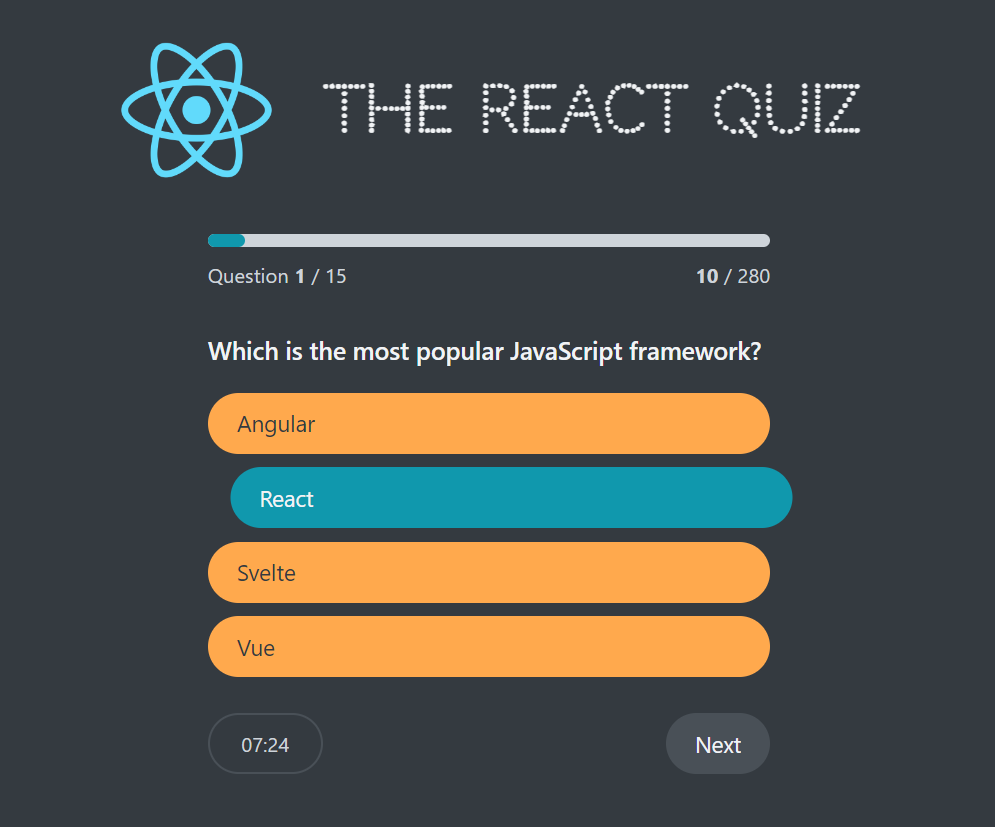
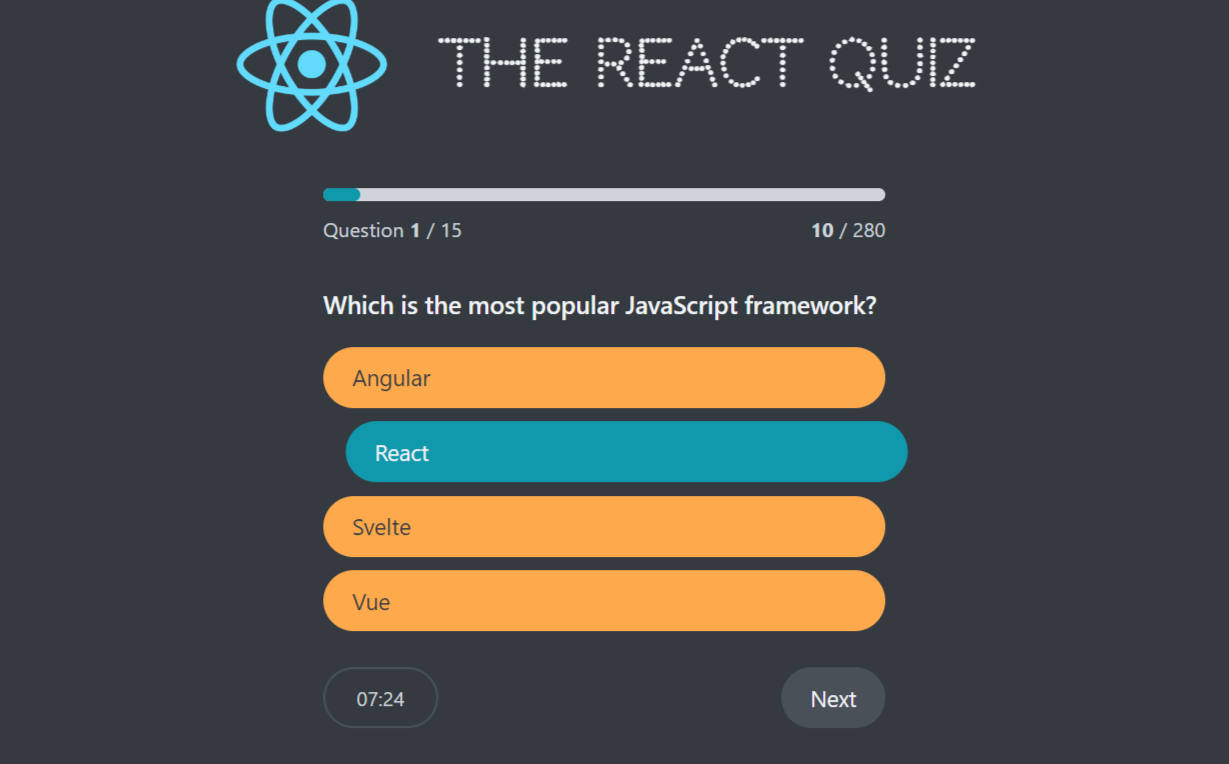
i dont remember

diff --git a/index.html b/index.html
@@ -23,49 +23,50 @@
       </p>
       <section class="myProjects">
         <div class="project">
-          <p>Warm House</p>
+          <p class="project-title">Warm House</p>
+          <!-- <p class="project-description">Real Estate Website</p> -->
           <a href="https://warm.ge/?locale=ka" target="_blank">
             <img alt="warm house" src="./images/warm house.png" />
           </a>
         </div>
 
         <div class="project">
-          <p>Use Popcorn</p>
+          <p class="project-title">Use Popcorn</p>
           <a href="https://use-popcorn-jet-phi.vercel.app/" target="_blank">
             <img alt="popcorn" src="./images/popcorn.png" />
           </a>
         </div>
 
         <div class="project">
-          <p>Forkify</p>
+          <p class="project-title">Forkify</p>
           <a href="https://forkify-sali.netlify.app/" target="_blank">
             <img alt="forkify" src="./images/forkify.png" />
           </a>
         </div>
 
         <div class="project">
-          <p>Atomic Blog</p>
+          <p class="project-title">Atomic Blog</p>
           <a href="https://atomic-blog-gules.vercel.app/" target="_blank">
             <img alt="atomic blog" src="./images/atomic blog.png" />
           </a>
         </div>
 
         <div class="project">
-          <p>React Quiz</p>
+          <p class="project-title">React Quiz</p>
           <a href="https://react-quiz-zeta-three.vercel.app/" target="_blank">
             <img alt="react quiz" src="./images/react quiz.png" />
           </a>
         </div>
 
         <div class="project">
-          <p>Far Away</p>
+          <p class="project-title">Travel List</p>
           <a href="https://travel-list-neon.vercel.app/" target="_blank">
             <img alt="travel list" src="./images/travel list.png" />
           </a>
         </div>
 
         <!-- <div class="project">
-          <p>Pizza Menu</p>
+          <p class="project-title">Pizza Menu</p>
           <a href="https://pizza-menu-snowy.vercel.app/" target="_blank">
             <img alt="pizza menu" src="./images/pizza menu.png" />
           </a>

diff --git a/styles.css b/styles.css
@@ -12,12 +12,12 @@
   margin: 0;
   padding: 0;
   background-color: #c8c8ca;
-  font-size: 26px;
+  font-size: 30px;
   font-weight: 400;
-  line-height: 28px;
+  line-height: 32px;
   letter-spacing: 0em;
   text-align: left;
-  /* box-sizing: border-box; */
+  box-sizing: border-box;
 }
 
 body {
@@ -60,18 +60,9 @@ body {
   flex-direction: column;
   gap: 50px;
   padding: 15px;
+  padding-bottom: 25px;
   border-right: 2px solid black;
   border-bottom: 2px solid black;
-
-  p {
-    font-family: NB Akademie Pro;
-    font-size: 18px;
-    font-weight: 400;
-    text-transform: uppercase;
-    line-height: 16px;
-    letter-spacing: 0em;
-    text-align: center;
-  }
 
   a {
     display: flex;
@@ -92,7 +83,45 @@ body {
   }
 }
 
+.project-title {
+  font-family: NB Akademie Pro;
+  font-size: 18px;
+  font-weight: 400;
+  text-transform: uppercase;
+  line-height: 16px;
+  letter-spacing: 0em;
+  text-align: center;
+}
+
+/* .project-description {
+  font-family: NB Akademie Pro;
+  font-size: 14px;
+  font-weight: 300;
+  text-transform: uppercase;
+  line-height: 12px;
+  letter-spacing: 0em;
+  text-align: center;
+} */
+
+@media screen and (min-width: 1800px) {
+  * {
+    font-size: 52px;
+    line-height: 58px;
+  }
+}
+
+@media screen and (min-width: 1440px) {
+  * {
+    font-size: 42px;
+    line-height: 48px;
+  }
+}
+
 @media screen and (max-width: 1024px) {
+  * {
+    font-size: 26px;
+    line-height: 28px;
+  }
   .project {
     img {
       width: 130px;
@@ -119,7 +148,6 @@ body {
   .project {
     border-left: 2px solid black;
     width: 100%;
-    padding-right: none;
     padding-top: 30px;
     margin: 0 10px !important;
 
@@ -130,11 +158,11 @@ body {
   }
 }
 
-@media screen and (max-width: 400px) {
+@media screen and (max-width: 440px) {
   .project {
     img {
-      width: 280px;
-      height: 186px;
+      width: 100%;
+      height: 160px;
     }
   }
 }
